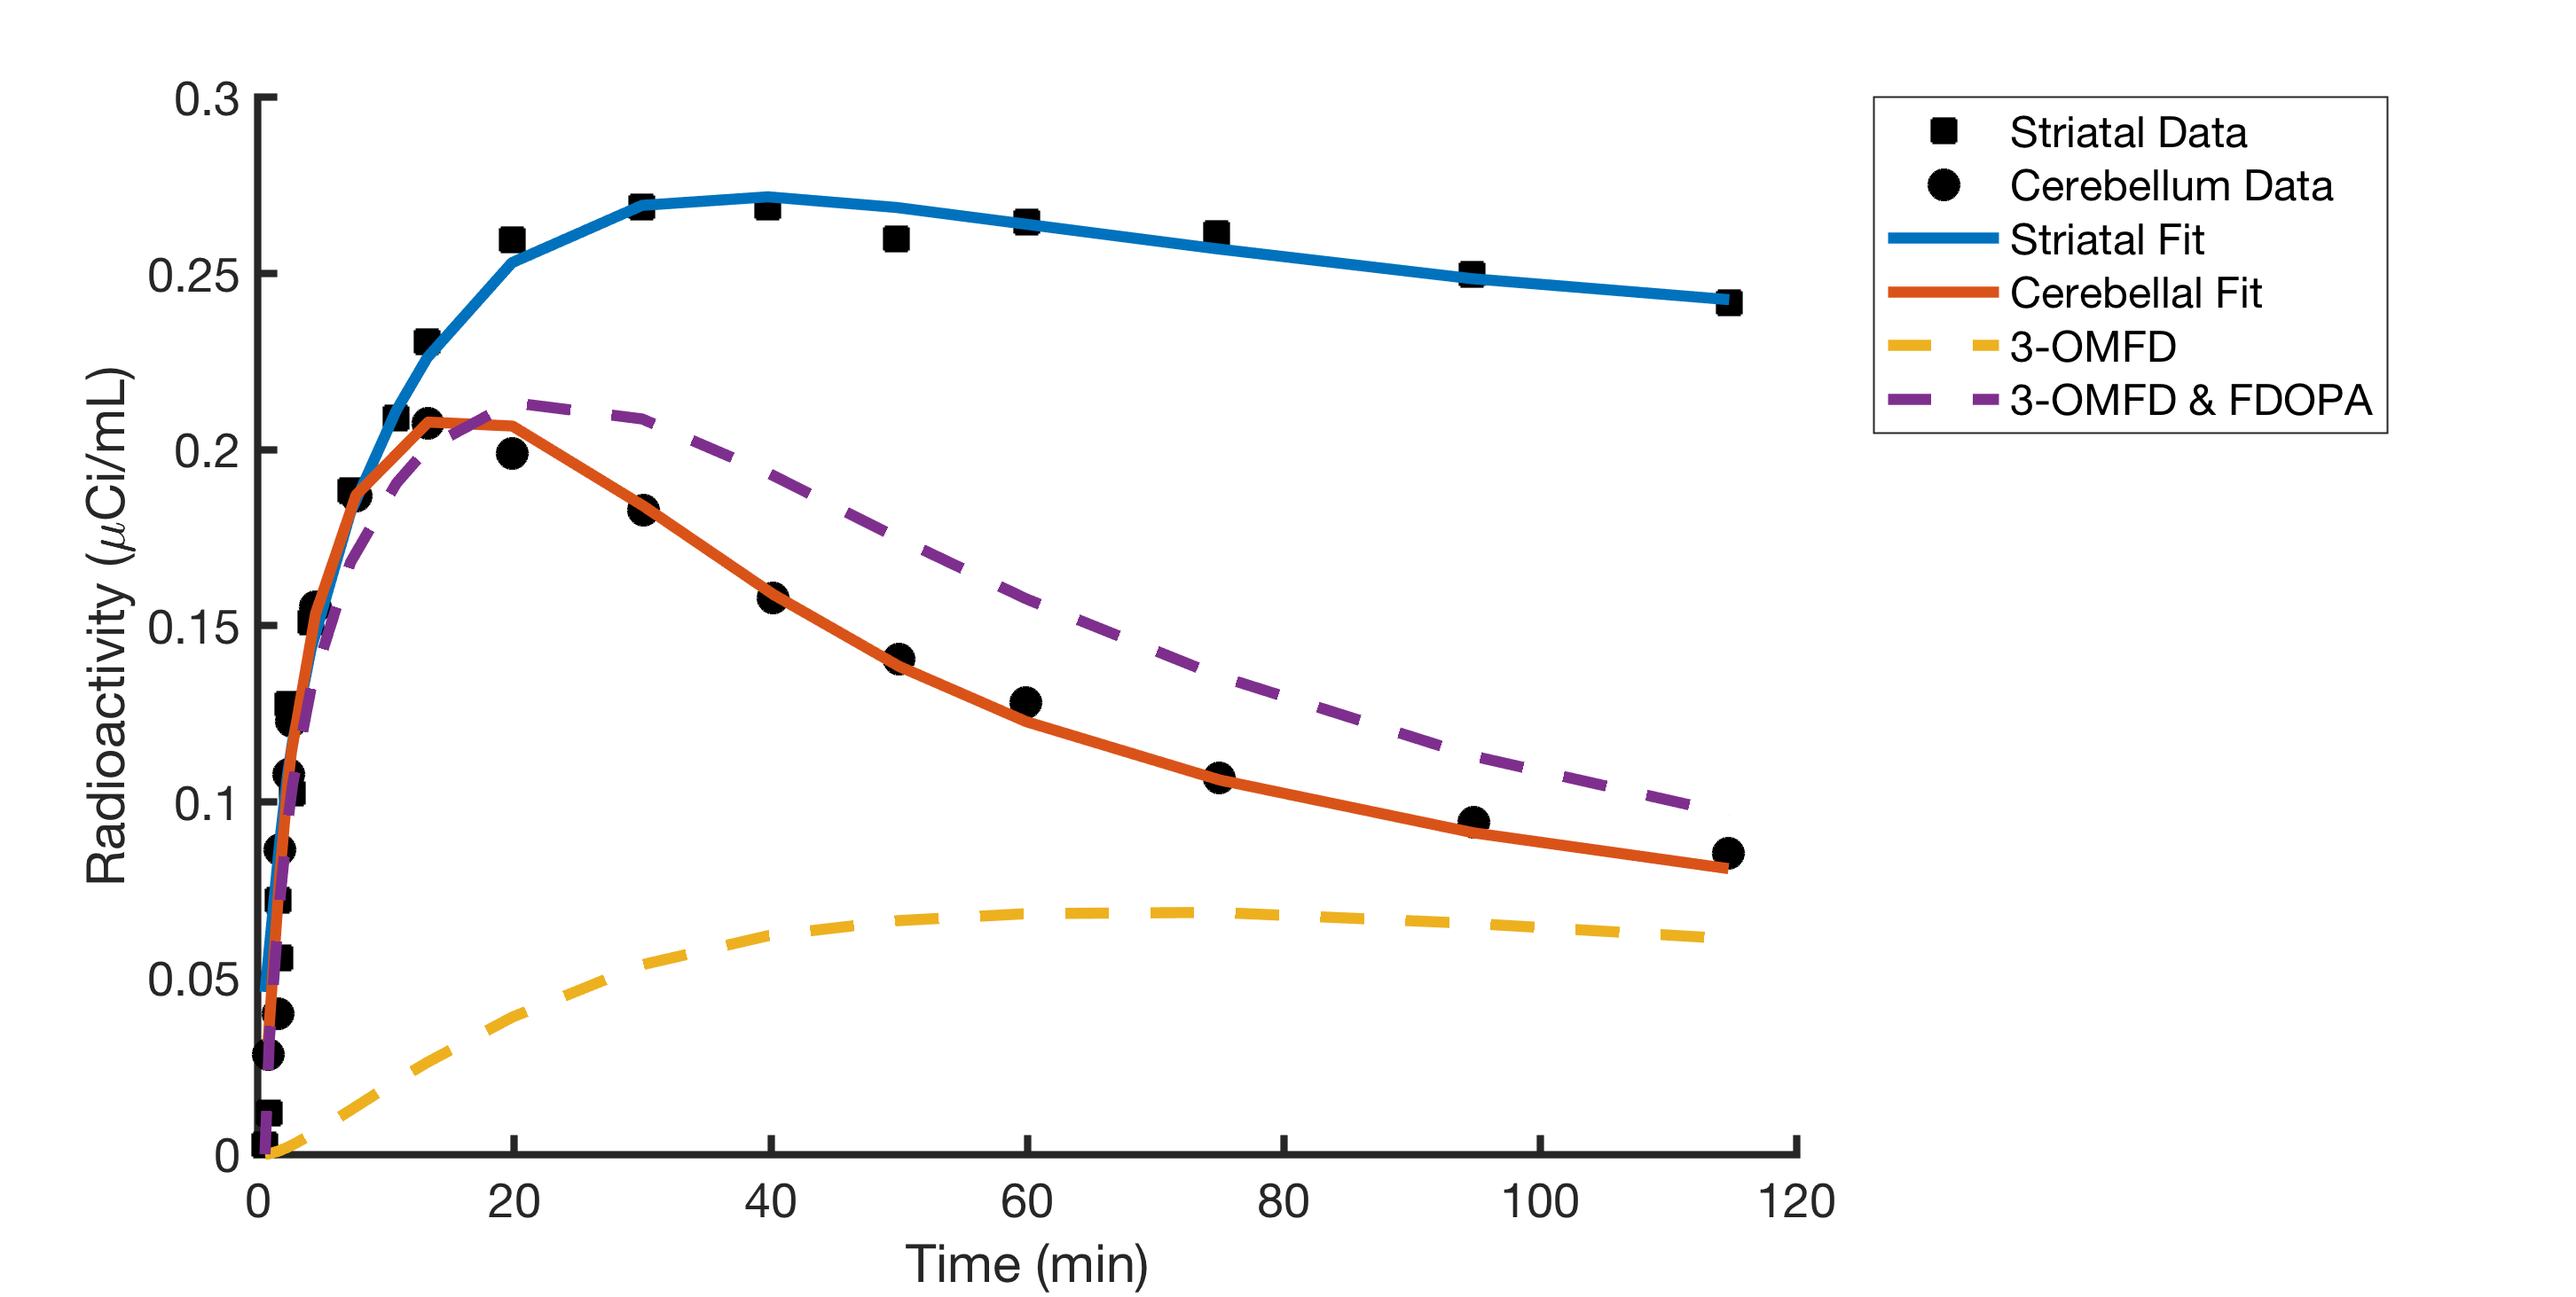
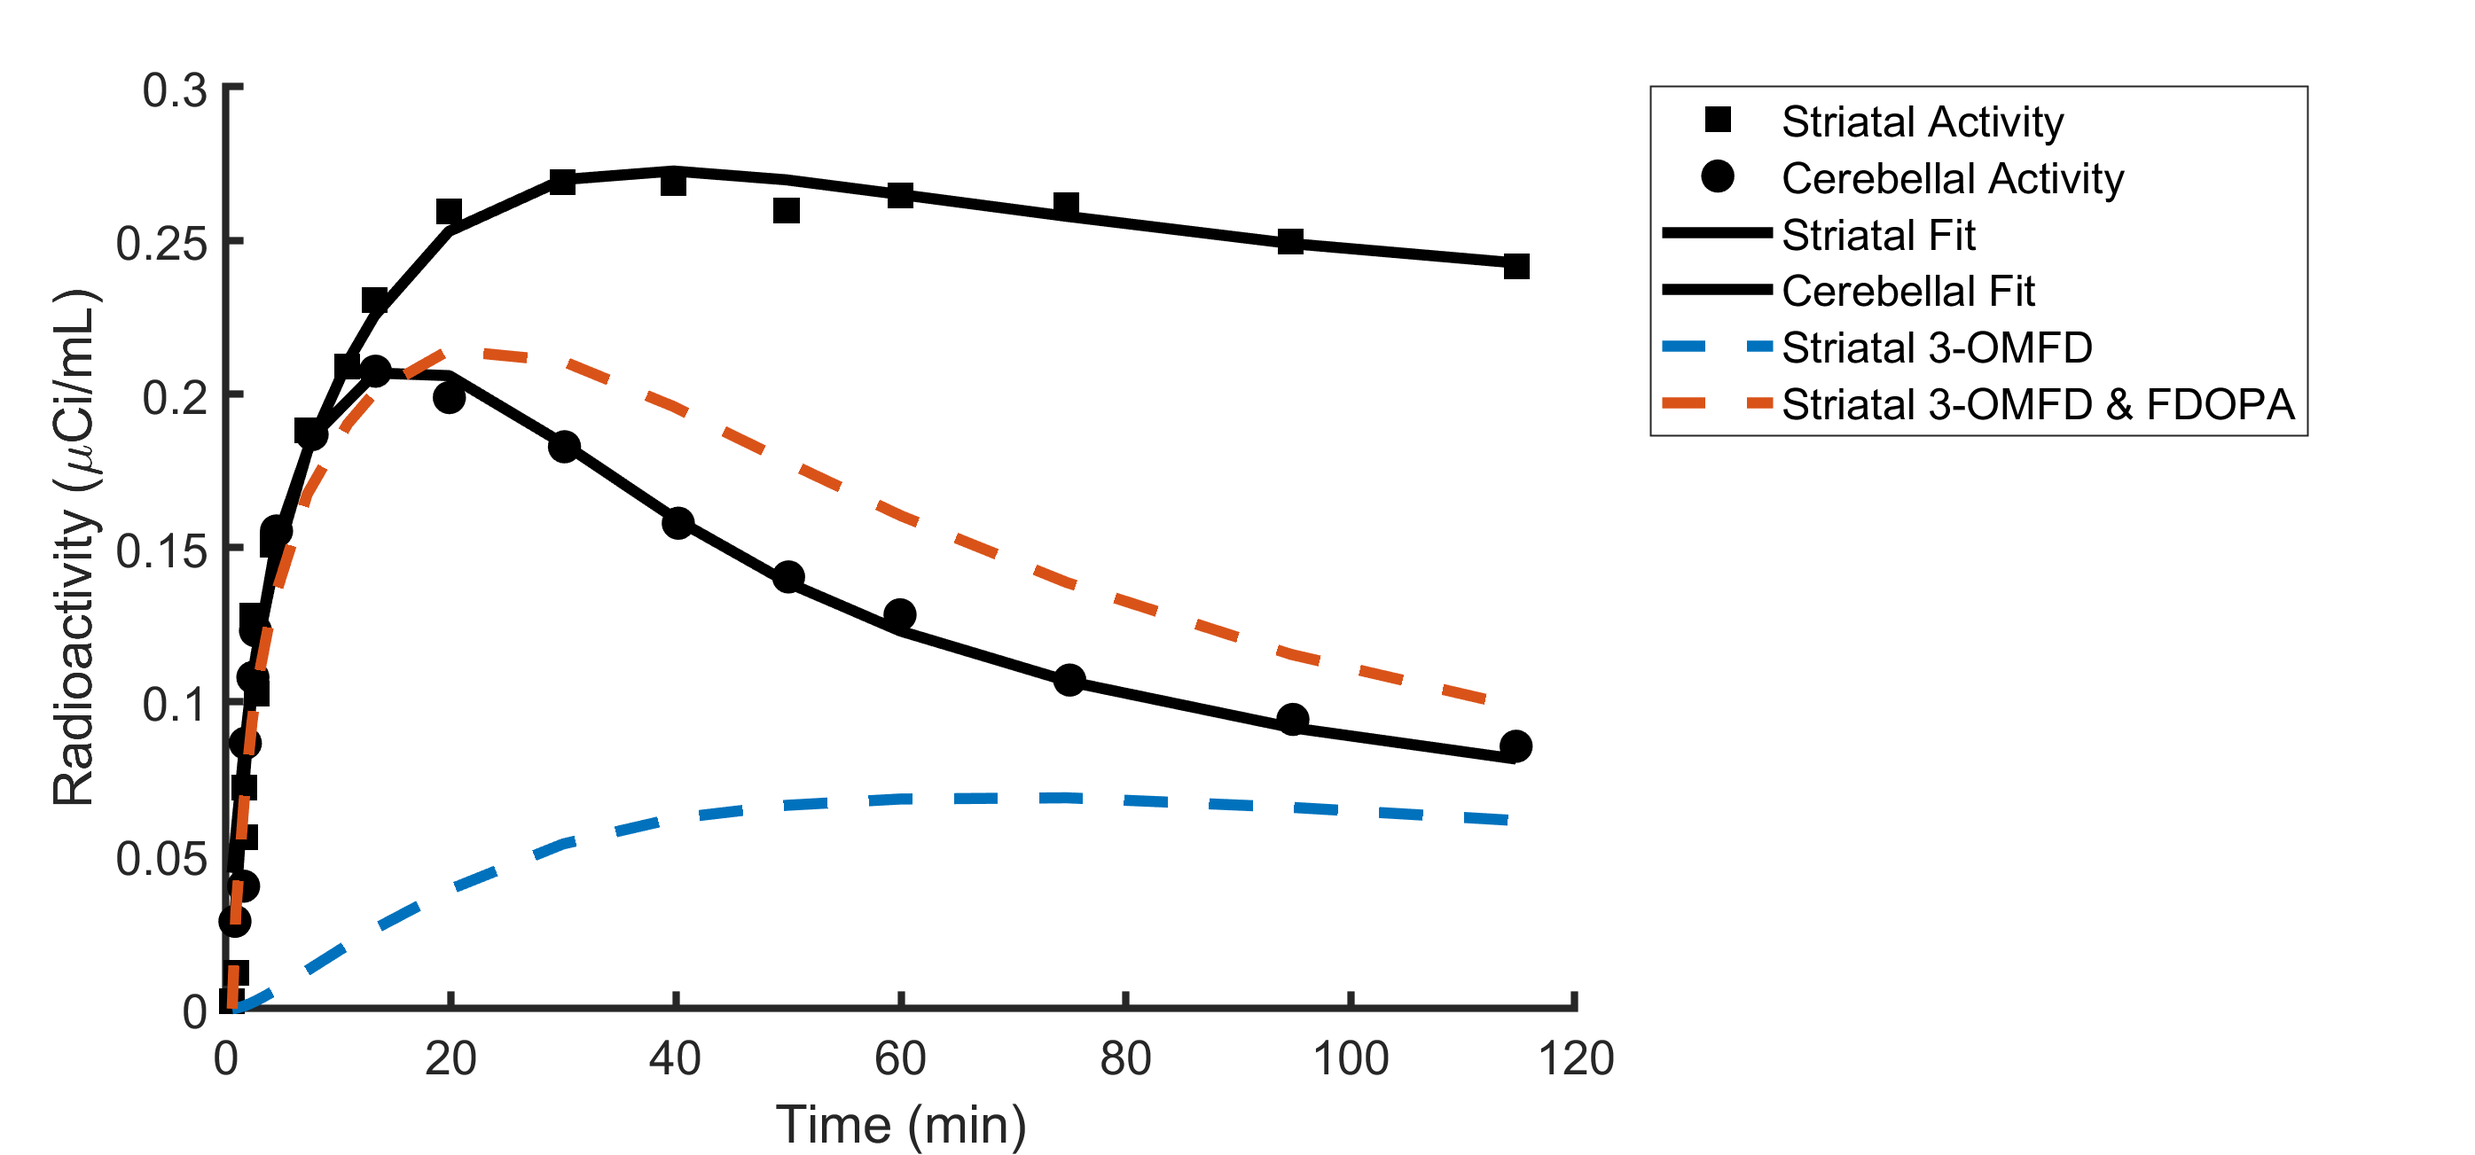
small figure changes

Changed region(s): [[0.0, 0.0614, 0.9351, 1.0], [0.3117, 0.3991, 0.3429, 0.4298]]

diff --git a/swain_corban_huang.m b/swain_corban_huang.m
@@ -36,6 +36,8 @@ csv = importdata('tissue_radioactivity_cerebellum_FIG6.csv');
 Cc_fig6.t = csv.data(:, 1);
 Cc_fig6.y = csv.data(:, 2);
 
+t_templ = linspace(eps, 10, 50)';
+t_templ = [t_templ(1:(end - 1)); linspace(10, 120, 51)'];
 %% Figures
 
 figures{4} = @fig4;
@@ -50,7 +52,7 @@ figures{4} = @fig4;
         params0 = [0.0110, 0.025, 0.0105];
         loadin = true;
         varname = 'fit_params'; 
-        filename = 'omfd_fit_params_cache.mat';
+        filename = 'figure4_cache.mat';
         if loadin && isfile(filename)
             load(filename, varname);            
         else
@@ -62,6 +64,7 @@ figures{4} = @fig4;
         omfd_fit_params = fit_params;
         setupfig(fignum, 'Figure 4');
         tfit = omfdfrac_fig4.t + eps;
+%         tfit = t_templ;
         yfit = modelfun(fit_params, tfit);
         ps.x = {tfit, t};  ps.y = {yfit, y};
         ps.xlim = [0 120]; ps.ylim = [0 1];
@@ -88,6 +91,10 @@ figures{5} = @fig5;
         Cfdopa = Cf18(t) - Comfd;
         Comfd_source = struct('t', t, 'y', Comfd);
         Cfd_source = struct('t', t, 'y', Cfdopa);
+%         t = t_templ;
+        t = Cf18_fig5.t + eps;
+        Comfd = modelfun_omfd(fit_params, t, 1);
+        Cfdopa = Cf18(t) - Comfd;
         ps.x = {Cf18_fig5.t, t, t};
         ps.y = {Cf18_fig5.y, Cfdopa, Comfd};
         ps.xlim = [0 120]; ps.ylim = [0.001 10];
@@ -110,15 +117,29 @@ figures{5} = @fig5;
 figures{6} = @fig6;
     function fs = fig6
         fignum = 6;
-        % Fitting Partition Coeffecients
-        part_coef0 = [1.01, 1.08];
-        Cwb = @(p, t) abs(p(1)) * 0.6 * Cfd(t) + abs(p(2)) * Comfd(t);
-        fit_part_coeff = nlinfit(Cf18_wb_fig3.t, Cf18_wb_fig3.y, ...
-            Cwb, part_coef0, getfitopts);
-        fit_part_coeff = abs(fit_part_coeff);
-        Cbackground = @(t) 0.05 * Cwb(fit_part_coeff, t);
+        loadin = true;
+        % FIXME - Automate Saving / Checkpoints.
+        varnames = {'Cbackground', 'Cwb', 'fit_part_coeff'}; 
+        filename = 'figure6_cache_1.mat';
+        if loadin && isfile(filename)
+            for i = 1:length(varnames)
+                load(filename, varnames{i});
+            end
+        else
+            % Fitting Partition Coeffecients
+            part_coef0 = [1.01, 1.08];
+            Cwb = @(p, t) abs(p(1)) * 0.6 * Cfd(t) + abs(p(2)) * Comfd(t);
+            fit_part_coeff = nlinfit(Cf18_wb_fig3.t, Cf18_wb_fig3.y, ...
+                Cwb, part_coef0, getfitopts);
+            fit_part_coeff = abs(fit_part_coeff);
+            Cbackground = @(t) 0.05 * Cwb(fit_part_coeff, t);
+            save(filename, varnames{1});
+            for i = 2:length(varnames)
+                save(filename, varnames{i}, '-append');
+            end
+        end
+        clear filename varnames;
         
-        % Fitting Activity Timecourses
         function [stri_activity, C] = modelfun_s(p, t)
             p = [p, 0];
             C = modelfun_striatum(p, t);
@@ -128,24 +149,42 @@ figures{6} = @fig6;
             C = modelfun_cerebellum(p, t);
             cere_activity = sum(C, 2) + Cbackground(t);
         end
-        n = 1;
-        t{n} = Cs_fig6.t; y{n} = Cs_fig6.y;
-        modelfun{n} = @modelfun_s;
-        params0{n} = [0.0283, 0.0228, 0.0124];  
-        n = 2;
-        t{n} = Cc_fig6.t; y{n} = Cc_fig6.y;
-        modelfun{n} = @modelfun_c;
-        params0{n} = [0.0352, 0.0569]; 
-        fit_params = cell(n, 1); tout = fit_params; 
-        ytot_out = tout; ycomp_out = tout;
-        for i = 1:n
-            fit_params{i} = nlinfit(t{i}, y{i}, modelfun{i}, ...
-                params0{i}, getfitopts);
-            fit_params{i} = abs(fit_params{i});
-%             tout{i} = linspace(t{i}(1), t{i}(end), 50);
-            tout{i} = t{i};
+        
+        varnames = {'fit_params', 't', 'y', 'modelfun'};
+        filename = 'figure6_cache_2.mat';
+        if loadin && isfile(filename)
+            for i = 1:length(varnames)
+                load(filename, varnames{i});
+            end
+        else
+            % Fitting Cerebellal and Striatal Activities
+            n = 1;
+            t{n} = Cs_fig6.t; y{n} = Cs_fig6.y;
+            modelfun{n} = @modelfun_s;
+            params0{n} = [0.0283, 0.0228, 0.0124];  
+            n = 2;
+            t{n} = Cc_fig6.t; y{n} = Cc_fig6.y;
+            modelfun{n} = @modelfun_c;
+            params0{n} = [0.0352, 0.0569]; 
+            fit_params = cell(n, 1); tout = fit_params; 
+            ytot_out = tout; ycomp_out = tout;
+            for i = 1:n
+                fit_params{i} = nlinfit(t{i}, y{i}, modelfun{i}, ...
+                    params0{i}, getfitopts);
+                fit_params{i} = abs(fit_params{i});
+            end
+            save(filename, varnames{1});
+            for i = 2:length(varnames)
+                save(filename, varnames{i}, '-append');
+            end
+        end
+        clear filename varnames;
+        
+        for i = 1:length(fit_params)
+%             tout{i} = t_templ;
+            tout{i} = t{i} + eps;
             [ytot_out{i},  ycomp_out{i}] ...
-                = modelfun{i}(fit_params{i}, tout{i}); 
+                = modelfun{i}(fit_params{i}, tout{i});  
         end
         
         % Preparing plot and figure
@@ -161,17 +200,17 @@ figures{6} = @fig6;
         ps.grid = 'off';
         ps.xlabel = 'Time (min)'; 
         ps.ylabel = 'Radioactivity (\muCi/mL)';
-        ps.legend = {'Striatal Data', 'Cerebellum Data', ...
-            'Striatal Fit', 'Cerebellal Fit', '3-OMFD', ...
-            '3-OMFD & FDOPA'};
+        ps.legend = {'Striatal Activity', 'Cerebellal Activity', ...
+            'Striatal Fit', 'Cerebellal Fit', 'Striatal 3-OMFD', ...
+            'Striatal 3-OMFD & FDOPA'};
         ps.legend_loc = 'northeastoutside';
         ps.cycle_len = 1;
-        ps.linespec =        {'ks','ko','-','-','--','--'};
+        ps.linespec =        {'ks','ko','-k','-k','--','--'};
         ps.markerfacecolor = {  'k','k', [], [],  [],  []};
         ps.markersize =      {   8,   8, [], [],  [],  []};
         ps.linewidth =       {   1,   1, [], [],  [],  []};
         fs.n = fignum;
-        fs.position = [5 179 697 351];
+        fs.position = [5 107 893 417];
         fs.title = sprintf(['%d - Striatal and Cerebral ',  ...
             'Activity TImecourses'], ...
             fignum);
